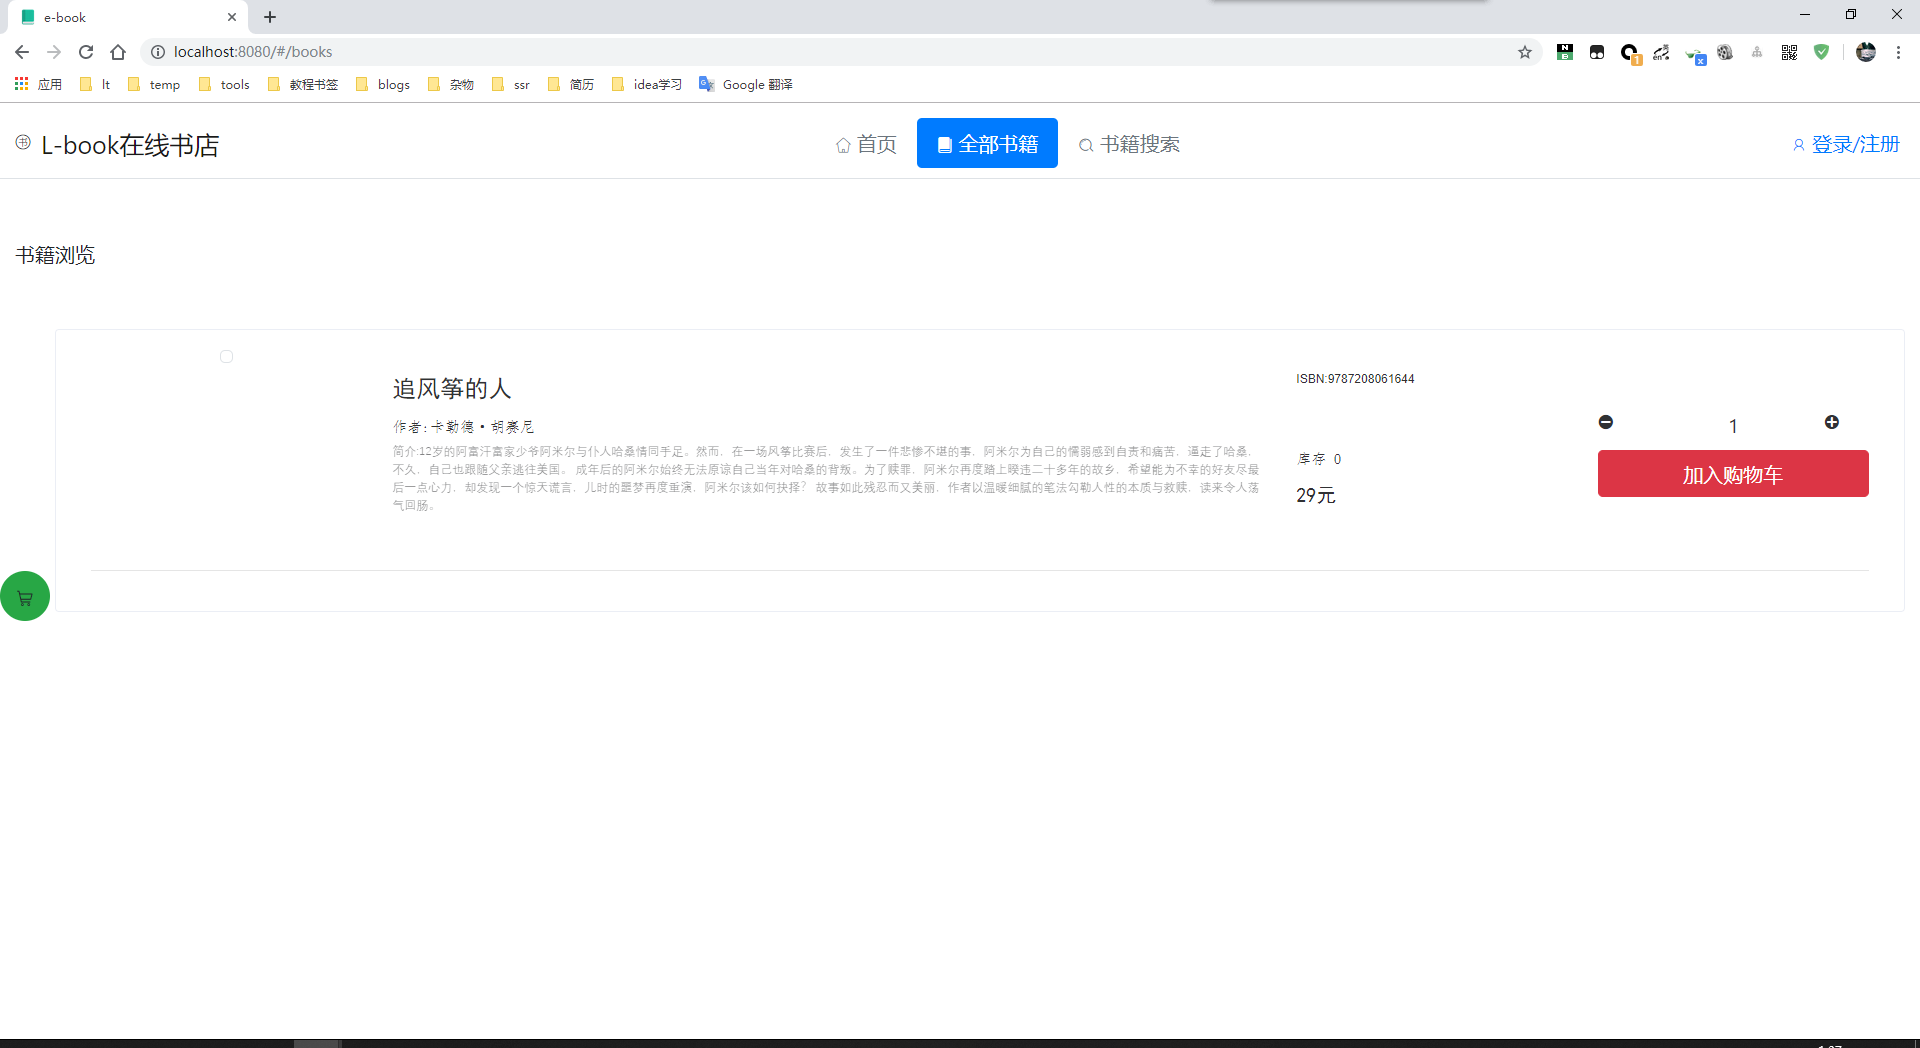
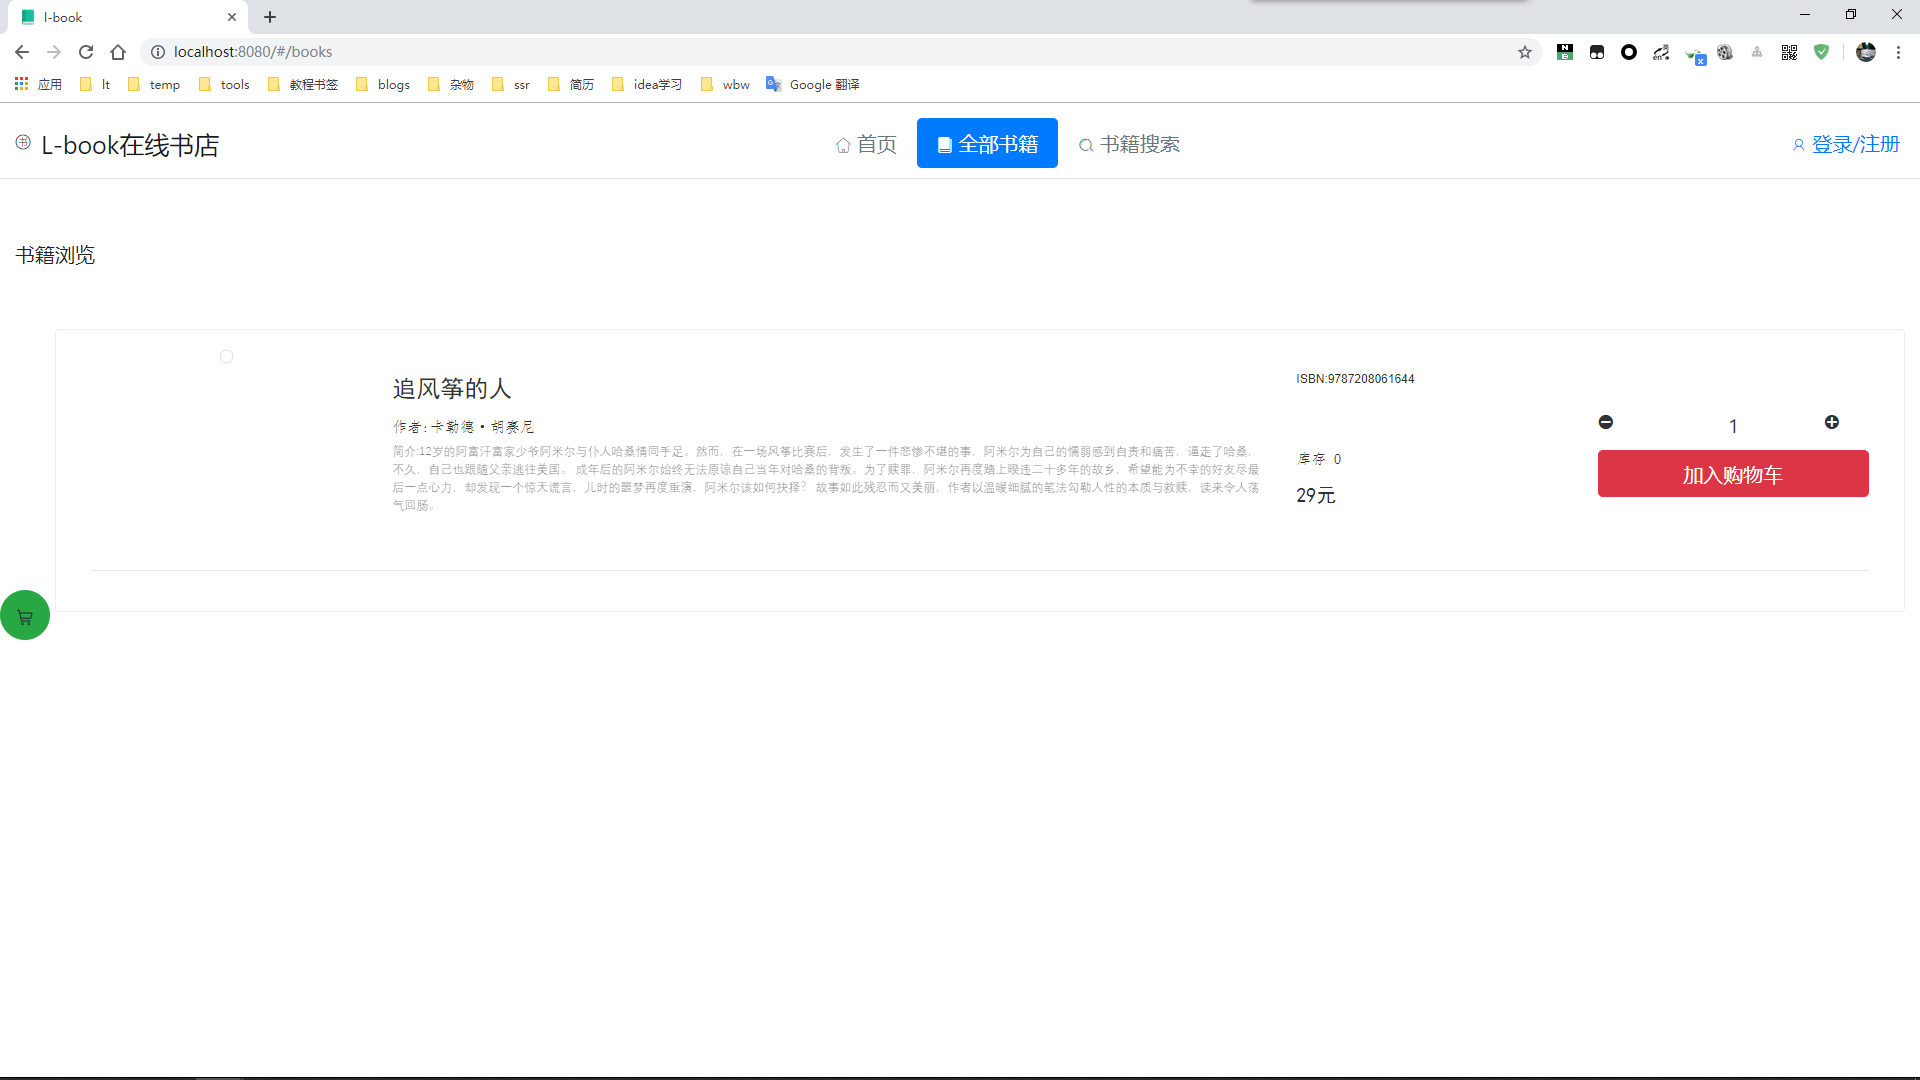
update img

diff --git a/L-book-client/src/pages/Login/Login.vue b/L-book-client/src/pages/Login/Login.vue
@@ -31,6 +31,7 @@
             <el-form-item label="手机号" prop="account">
                 <el-row>
                     <el-col :span="16"><el-input placeholder="请输入手机号" v-model="SignUp.account"></el-input></el-col>
+                    <!-- <el-col :span="8" v-show="!countDown"><el-button type="success" plain  @click="getCode(SignUp.account)">获取验证码</el-button></el-col> -->
                     <el-col :span="8" v-show="!countDown"><el-button type="success" plain :disabled="!phoneCheck" @click="getCode(SignUp.account)">获取验证码</el-button></el-col>
                     <el-col :span="8" v-show="countDown"><el-button type="success" plain disabled>{{count}}s后重发</el-button></el-col>
                 </el-row>

diff --git a/L-book-client/public/index.html b/L-book-client/public/index.html
@@ -7,11 +7,11 @@
     <link rel="icon" href="./book.png">
     <link rel="stylesheet" href="css/bootstrap.min.css">
     <link rel="stylesheet" href="//at.alicdn.com/t/font_1062289_4ualj74ntt5.css">
-    <title>e-book</title>
+    <title>l-book</title>
   </head>
   <body>
     <noscript>
-      <strong>We're sorry but e-book doesn't work properly without JavaScript enabled. Please enable it to continue.</strong>
+      <strong>We're sorry but l-book doesn't work properly without JavaScript enabled. Please enable it to continue.</strong>
     </noscript>
     <div id="app"></div>
     <!-- built files will be auto injected -->

diff --git a/L-book-server/src/main/java/cn/liantao/lbook/util/Message.java b/L-book-server/src/main/java/cn/liantao/lbook/util/Message.java
@@ -12,7 +12,7 @@ import com.aliyuncs.profile.DefaultProfile;
 
 public class Message {
     public static String sendSMS(String phoneNumber) throws ServerException,ClientException {
-        DefaultProfile profile = DefaultProfile.getProfile("cn-hangzhou", "LTAIFlno5O3QlcCr", "Ztdo20QH4r0b7VfJXIVwMCChY3iqYq");
+        DefaultProfile profile = DefaultProfile.getProfile("cn-hangzhou", "LTAI4FgaN63SWd6spjCp81WK", "kiD9siQpy3wt3v1QrKVKsg4WZQa4yQ");
         IAcsClient client = new DefaultAcsClient(profile);
 
         String code = RandomNumber.generate(6);
@@ -24,8 +24,8 @@ public class Message {
         request.setAction("SendSms");
         request.putQueryParameter("RegionId", "cn-hangzhou");
         request.putQueryParameter("PhoneNumbers", phoneNumber);
-        request.putQueryParameter("SignName", "EBook");
-        request.putQueryParameter("TemplateCode", "SMS_163852487");
+        request.putQueryParameter("SignName", "LBook");
+        request.putQueryParameter("TemplateCode", "SMS_173343759");
         request.putQueryParameter("TemplateParam", "{\"code\":\""+code+"\"}");
 
         CommonResponse response = client.getCommonResponse(request);

diff --git a/L-book-server/src/main/java/cn/liantao/lbook/LBookApplication.java b/L-book-server/src/main/java/cn/liantao/lbook/LBookApplication.java
@@ -6,10 +6,10 @@ import org.springframework.boot.autoconfigure.SpringBootApplication;
 
 @MapperScan("cn.liantao.lbook.mapper")
 @SpringBootApplication
-public class EBookApplication {
+public class LBookApplication {
 
 	public static void main(String[] args) {
-		SpringApplication.run(EBookApplication.class, args);
+		SpringApplication.run(LBookApplication.class, args);
 	}
 
 }

diff --git a/L-book-server/src/test/java/cn/liantao/lbook/LBookApplicationTests.java b/L-book-server/src/test/java/cn/liantao/lbook/LBookApplicationTests.java
@@ -8,6 +8,6 @@ import org.springframework.test.context.junit4.SpringRunner;
 @Ignore
 @RunWith(SpringRunner.class)
 @SpringBootTest
-public class EBookApplicationTests {
+public class LBookApplicationTests {
 
 }

diff --git a/L-book-server/src/test/java/cn/liantao/lbook/service/UserServiceImplTest.java b/L-book-server/src/test/java/cn/liantao/lbook/service/UserServiceImplTest.java
@@ -1,5 +1,8 @@
 package cn.liantao.lbook.service;
 
+
+
 public class UserServiceImplTest {
+
 
 }
